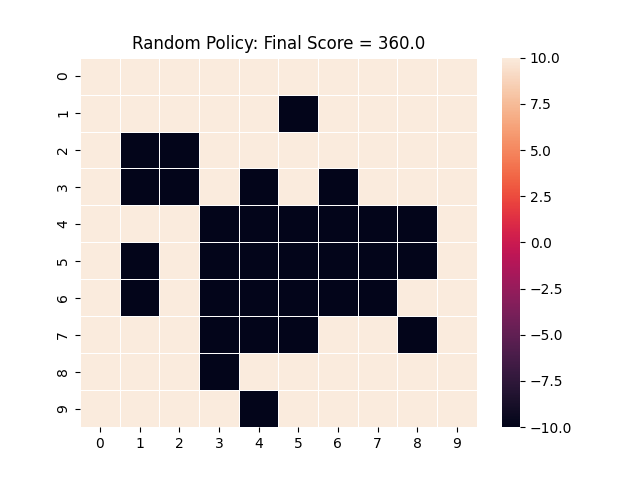
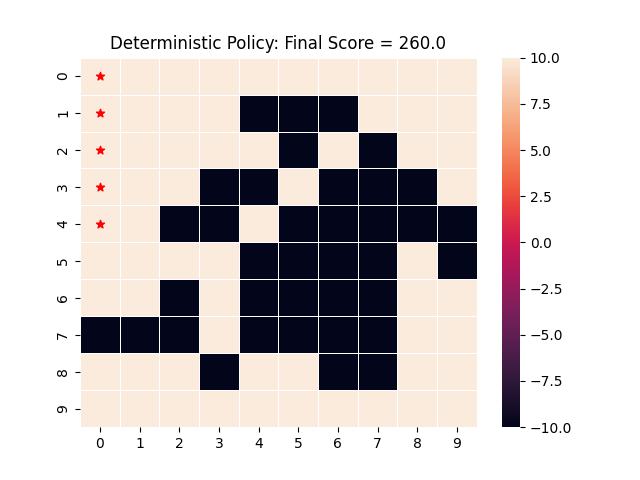
Add files via upload

diff --git a/fwd_search.py b/fwd_search.py
@@ -45,8 +45,29 @@ def get_probabilities(num_states):
     return gaussian_probs(num_states)  # TODO: try uniform and random as well for final paper
 
 
-def simulate(prob_dist, S, R):
+def rollout(S, A, park_limit, prob_dist):
+    rollout_parks = random.sample(list(A), park_limit - 1)
+    temp = []
+    for a in rollout_parks:
+        S[a][0] = 1  # Place park there, change second index of tuple to 1
+        temp.append(prob_dist[a])
+        prob_dist[a] = 0
+    return rollout_parks, temp, S, prob_dist
+
+
+def restore(rollout_parks, temp, S, prob_dist):
+    # Restore state so can choose next action
+    for i in range(len(rollout_parks)):
+        a = rollout_parks[i]
+        S[a][0] = 0
+        prob_dist[a] = temp[i]
+    return S, prob_dist
+
+
+def simulate(prob_dist, S, A, R, park_limit):
     # TODO: pick 4 parks, set prob_dist to 0 for all of them
+    rollout_parks, temp, S, prob_dist = rollout(S, A, park_limit, prob_dist)
+    # TODO: incorporate distance into the algorithm, like if close to park then divide prob by 2
     for s in range(len(S)):
         if random.random() < prob_dist[s]:
             S[s][1] = 1
@@ -55,11 +76,12 @@ def simulate(prob_dist, S, R):
             S[s][1] = 0
             R[s] = 10  # # If not flooded, reward poistively TODO: try diff values here
     score = sum(R)
-    return score, R, S
+    S, prob_dist = restore(rollout_parks, temp, S, prob_dist)
+    return score, R, S, prob_dist
 
 
 # TODO: newer version, w/o bellman (or recursion?) - no need for T function? TA said good but check w mykel that this is fine
-def forward_search(S, depth, A, T, R, gamma, prob_dist, best_scores, best_comb_parks):
+def forward_search(S, depth, A, T, R, gamma, prob_dist, best_scores, best_comb_parks, park_limit):
     for d in range(depth):
         best = [None, -math.inf]  # (a, u)
         for a in A:
@@ -68,7 +90,7 @@ def forward_search(S, depth, A, T, R, gamma, prob_dist, best_scores, best_comb_p
             temp = prob_dist[a]
             prob_dist[a] = 0  # Change prob of flooding to zero
 
-            score, R, S = simulate(prob_dist, S, R)
+            score, R, S, prob_dist = simulate(prob_dist, S, A, R, park_limit)
 
             # Save if best
             if score > best[1]:  # NOTE: Write about this in project: experimenting with different metrics; added this cause unsure if ranking by utility is best or if it's better to rank by my more specific score metric; Marc said try both and write about it!
@@ -122,7 +144,7 @@ def fwd_search():
     # TODO: bellman version, reinstate if we want
     # final_policy, best_score, best_comb_parks = forward_search_bellman(S, d, U, A, T, R, gamma, prob_dist, best_score, best_comb_parks)[0]
 
-    best_comb_parks, best_scores, prob_dist, S = forward_search(S, depth, A, T, R, gamma, prob_dist, best_scores, best_comb_parks)
+    best_comb_parks, best_scores, prob_dist, S = forward_search(S, depth, A, T, R, gamma, prob_dist, best_scores, best_comb_parks, park_limit)
     final_policy = []
     for a in A:
         if a in best_comb_parks:
@@ -130,13 +152,20 @@ def fwd_search():
         else:
             final_policy.append(0)
 
+
+
     # TODO: ASK; calculate final score which way? do both and compare?
-    final_score, R, S = simulate(prob_dist, S, R)
+    final_score, R, S, prob_dist = simulate(prob_dist, S, A, R, park_limit)
     # final_score = sum(best_scores)/len(best_scores)  # Get average score
 
     # Draw heap map
+    x, y = [], []  # Convert parks to coordinates
+    for p in best_comb_parks:
+        x.append(int(p // 10) + 0.5)
+        y.append(p % 10 + 0.5)
     R_map = [R[0:10], R[10:20], R[20:30], R[30:40], R[40:50], R[50:60], R[60:70], R[70:80], R[80:90], R[90:100]]
     ax = sns.heatmap(R_map, linewidth=0.5)
+    ax.scatter(x, y, marker='*', color='red')
     plt.title('Fwd Search Policy: Final Score = ' + str(final_score))
     plt.savefig('fwd_search')
 

diff --git a/dummy.py b/dummy.py
@@ -12,11 +12,9 @@ from scipy.stats import multivariate_normal
 
 
 # Sets all policies to 0 except for 5 random positions on the grid, which is sets to 1 (add park)
-def get_policy(S, A, park_limit):
+def get_policy(S, A, park_limit, parks):
     S.sort()
     final_policy = {key: 0 for key in S}
-    # parks = random.sample(list(S), park_limit)
-    parks = [0, 1, 2, 3, 4]
     for p in parks:
         final_policy[p] = 1
     return final_policy
@@ -64,9 +62,15 @@ start_time = time.time()
 num_states = 100
 S = np.arange(0, num_states)
 A = np.arange(0, num_states)
-final_policy = get_policy(S, A, park_limit)
+# best_comb_parks = [0, 1, 2, 3, 4]
+best_comb_parks = random.sample(list(A), park_limit)  # TODO: try this too
+final_policy = get_policy(S, A, park_limit, best_comb_parks)
 
 # TO COMPARE TO FWD SEARCH
+x, y = [], []  # Convert parks to coordinates
+for p in best_comb_parks:
+    x.append(int(p // 10) + 0.5)
+    y.append(p % 10 + 0.5)
 R = np.zeros(num_states)
 prob_dist = get_probabilities(num_states)
 parks_indices = np.where(np.array(list(final_policy.values())) == 1)
@@ -75,7 +79,8 @@ for p in list(parks_indices[0]):
 final_score, R, S = simulate(prob_dist, S, R)
 R_map = [R[0:10], R[10:20], R[20:30], R[30:40], R[40:50], R[50:60], R[60:70], R[70:80], R[80:90], R[90:100]]
 ax = sns.heatmap(R_map, linewidth=0.5)
+ax.scatter(x, y, marker='*', color='red')
 plt.title('Random Policy: Final Score = ' + str(final_score))
 
-plt.savefig('dummy')
-write_policy(final_policy, final_score, 'dummy.policy')
+plt.savefig('random')
+write_policy(final_policy, final_score, 'random.policy')
